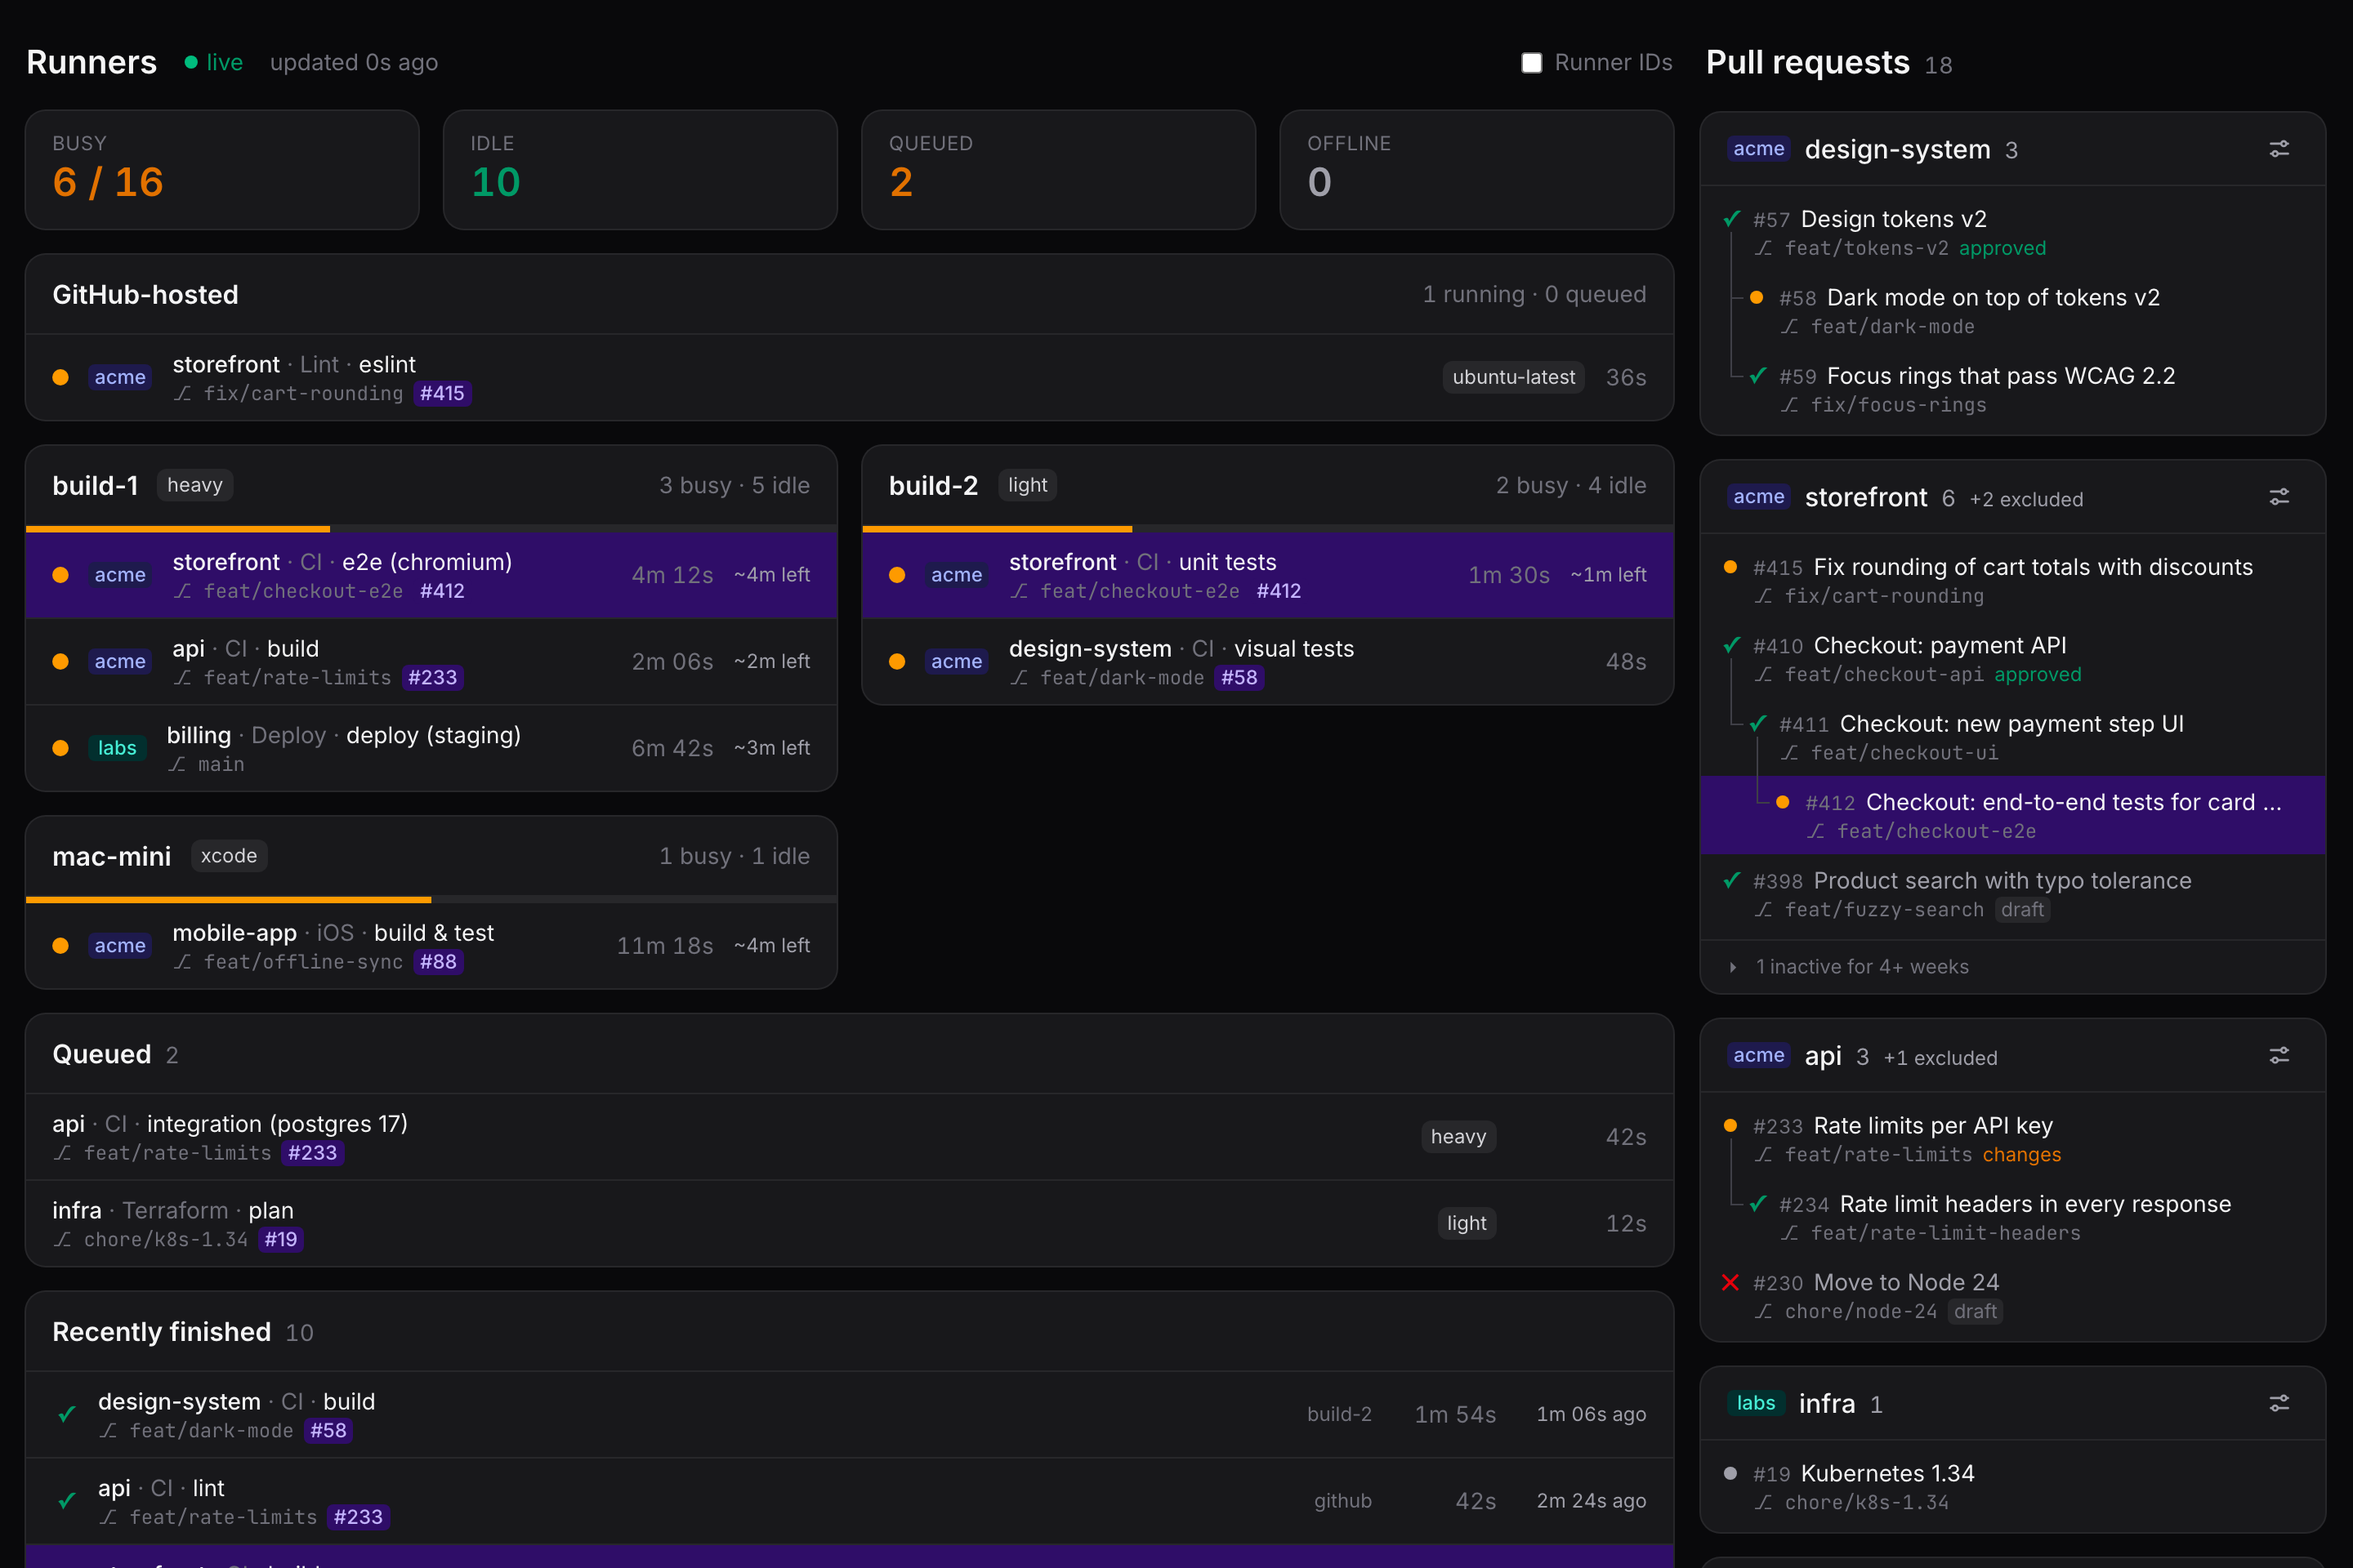
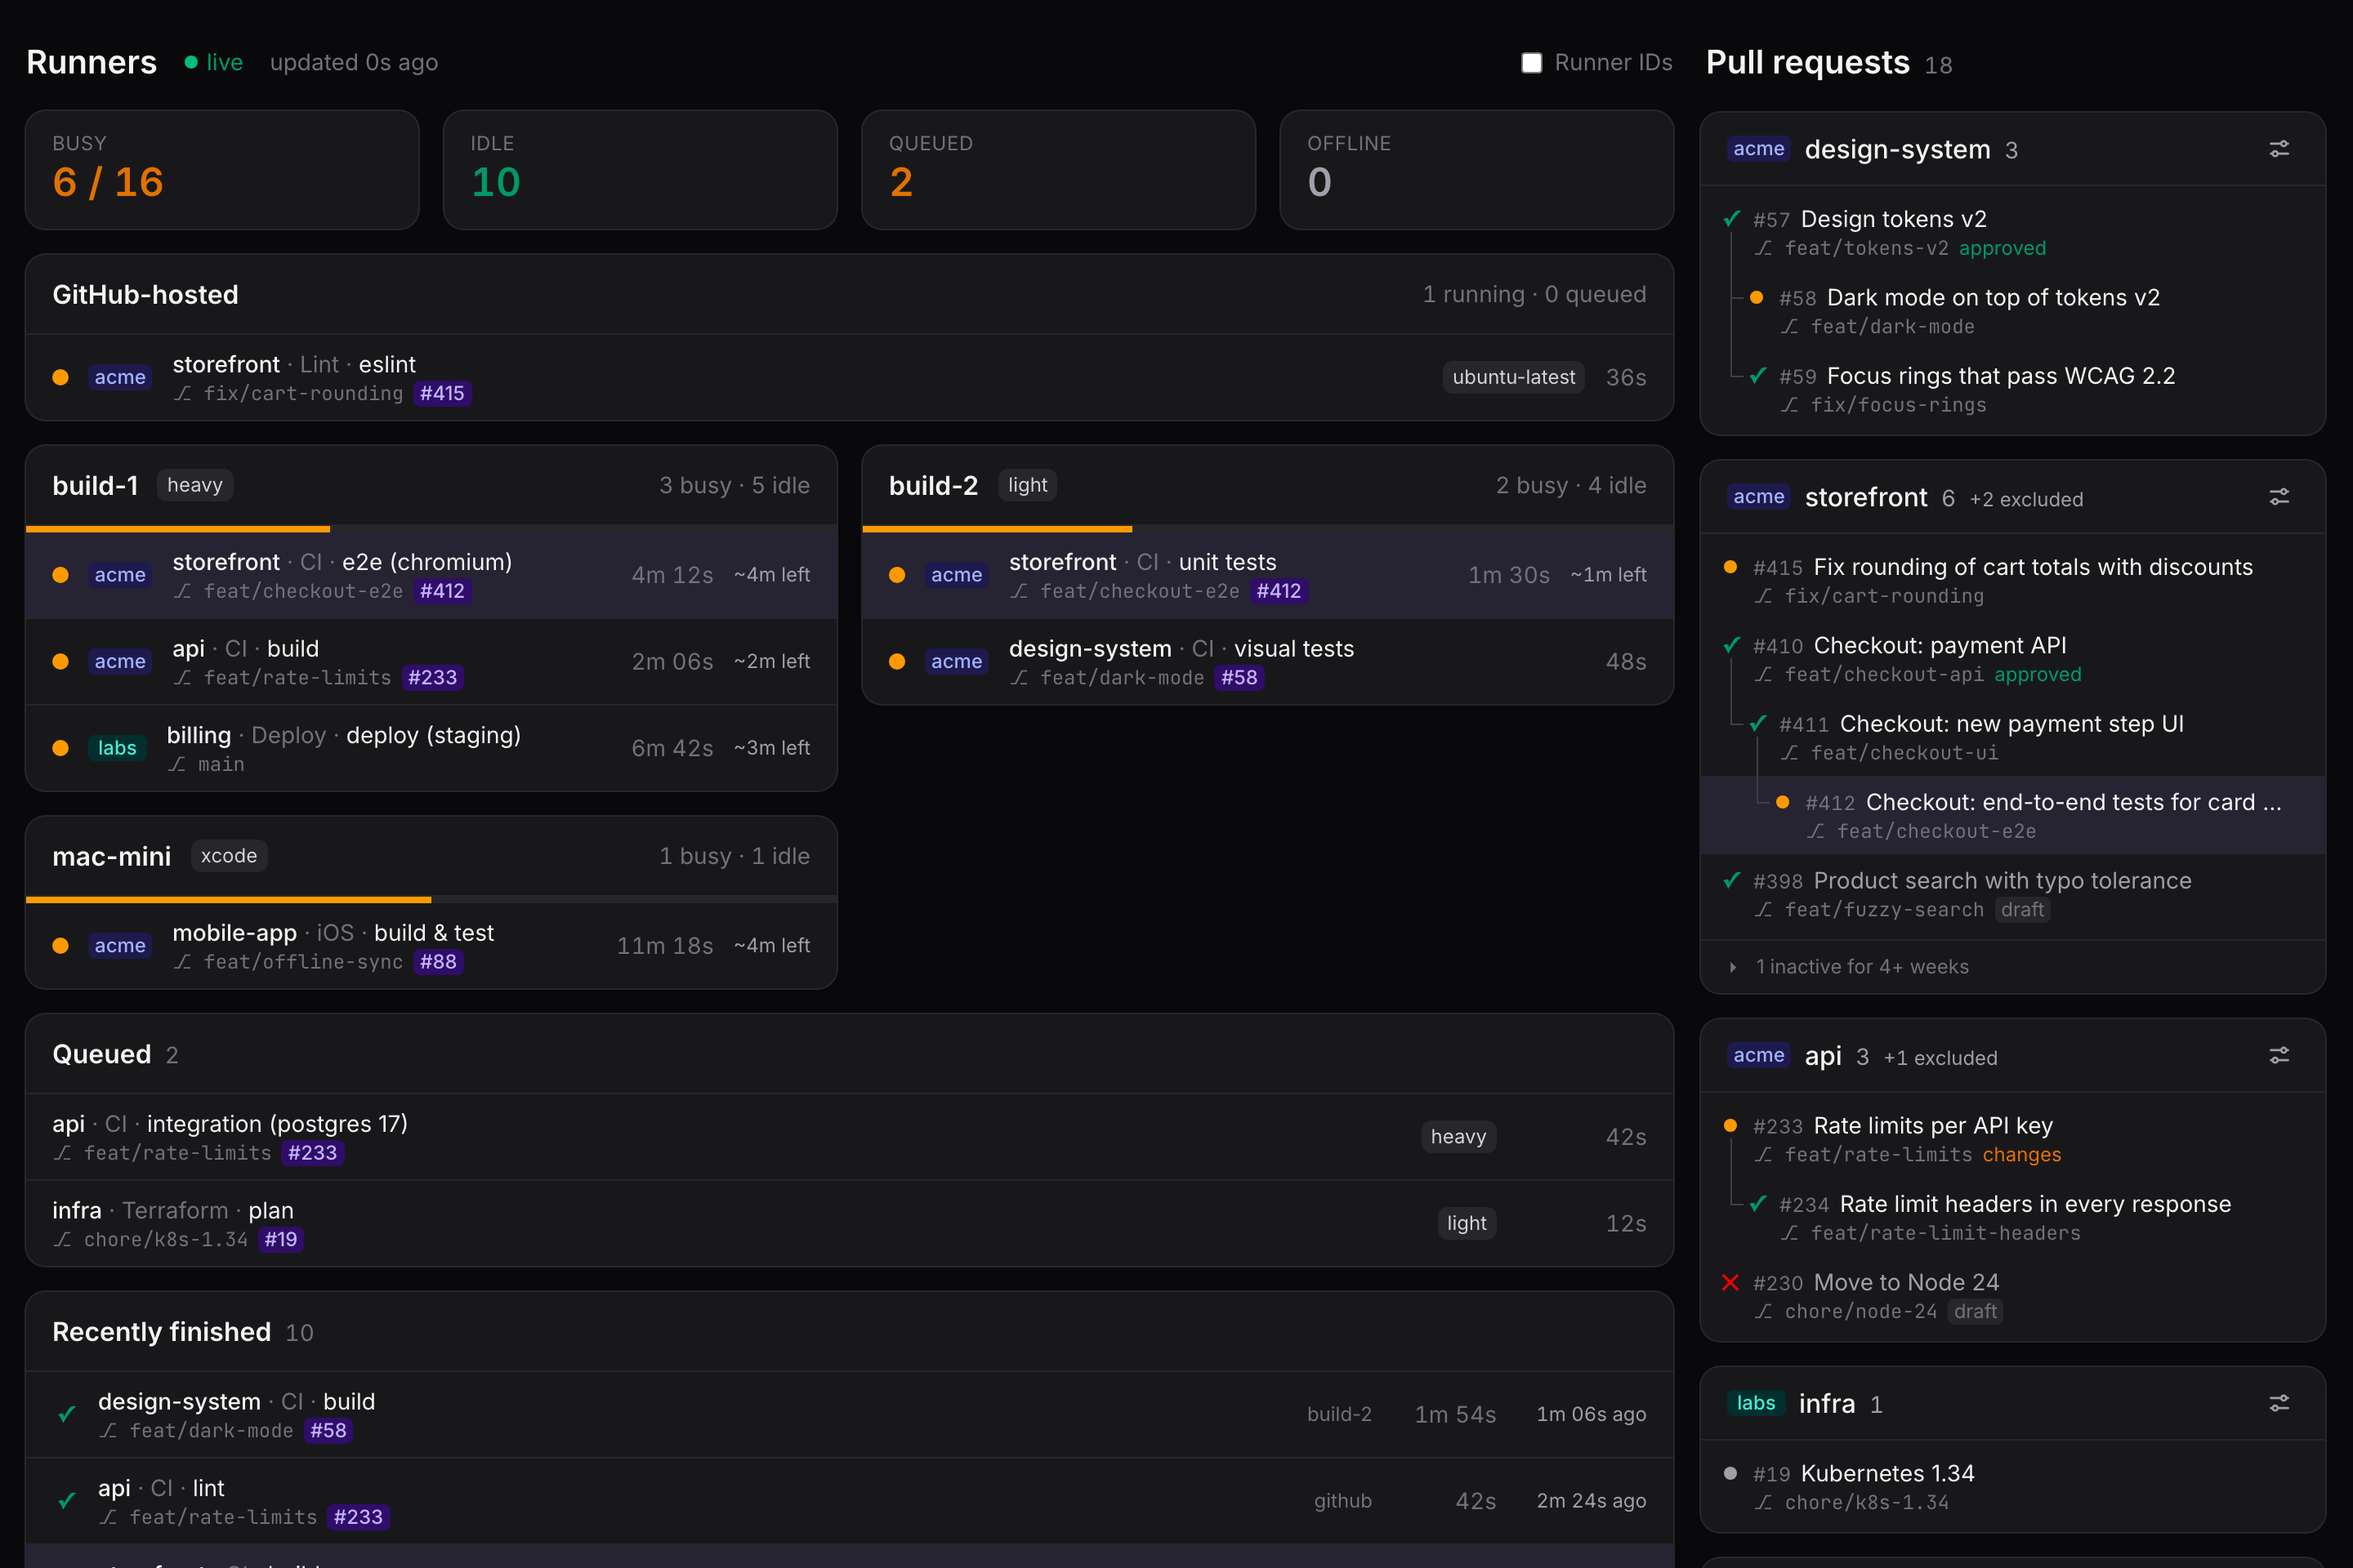
Softer PR highlight in dark mode (0.6.1)
The solid violet-950 behind a hovered PR and its jobs covered the dark
cards; a translucent violet-400/10 tints them instead, as violet-50 does
in light mode. Screenshots re-rendered.

Changed region(s): [[0.0, 0.3125, 0.7188, 0.4062], [0.7188, 0.4688, 1.0, 0.5625], [0.0, 0.9688, 0.7188, 1.0]]

diff --git a/src/app/core/pr-focus.ts b/src/app/core/pr-focus.ts
@@ -28,7 +28,7 @@ export class PrFocus {
 @Directive({
   selector: '[appPrHighlight]',
   host: {
-    '[class]': 'focused() ? "transition-colors bg-violet-50 dark:bg-violet-950" : "transition-colors"',
+    '[class]': 'focused() ? "transition-colors bg-violet-50 dark:bg-violet-400/10" : "transition-colors"',
     '(mouseenter)': 'key() && focus.key.set(key())',
     '(mouseleave)': 'key() && focus.key.set(null)',
   },

diff --git a/README.md b/README.md
@@ -273,7 +273,7 @@ cd .github/screenshot && npm ci && npx playwright install chromium && npm run sc
 ## Releasing
 
 Bump `version` in `package.json`, merge, then tag:
-`git tag v0.6.0 && git push origin v0.6.0`. The release workflow publishes
+`git tag v0.6.1 && git push origin v0.6.1`. The release workflow publishes
 `ghcr.io/volkmann-design-code/runner-dashboard` for amd64 and arm64.
 
 ## Contributing
